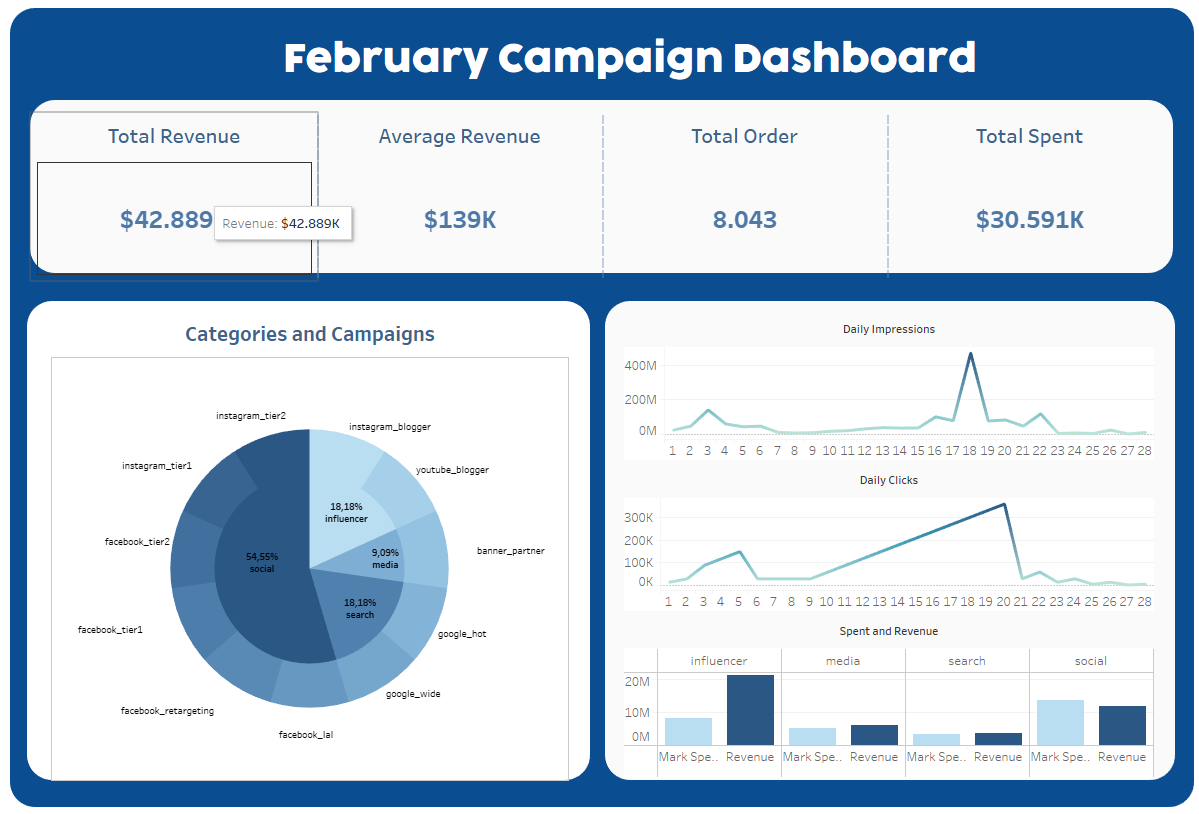
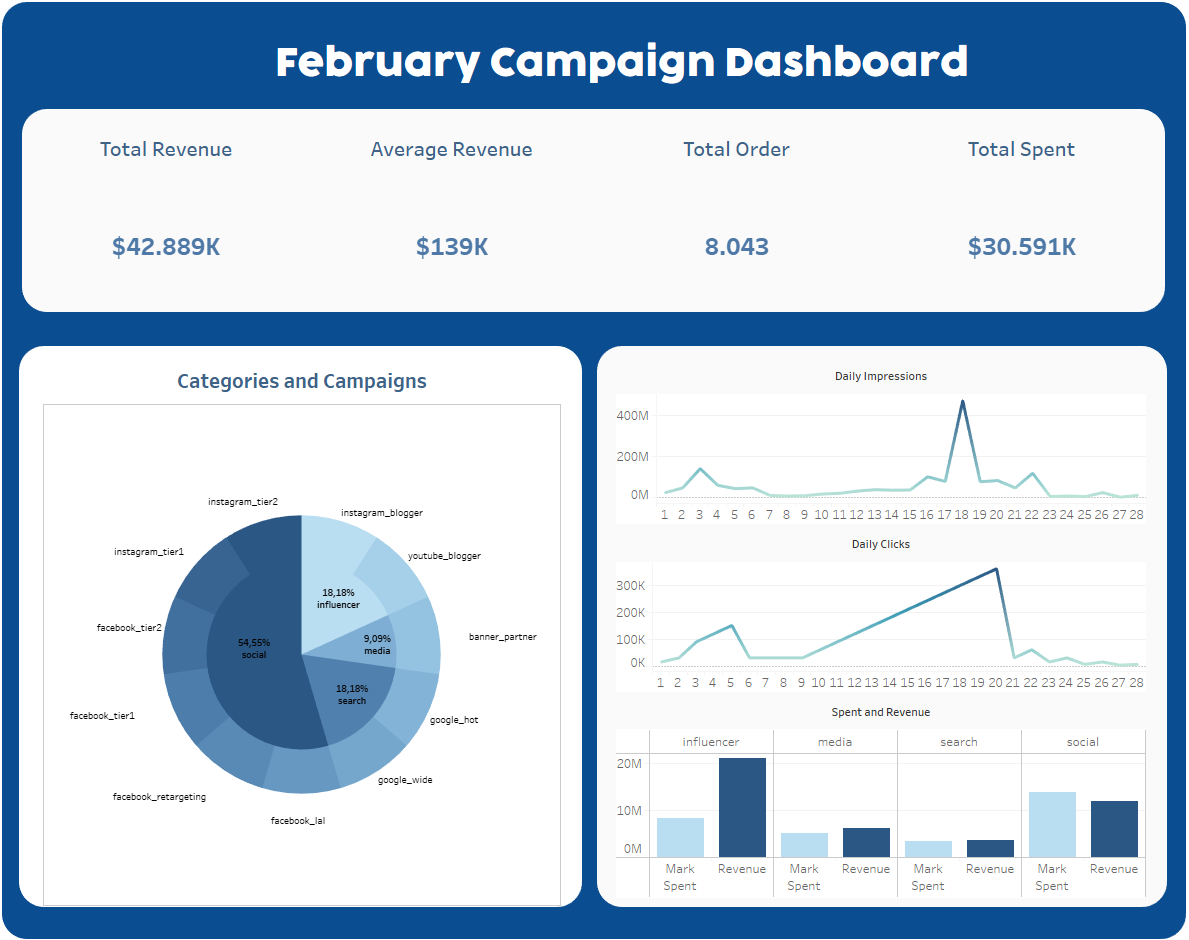
push

diff --git a/HR/README.md b/HR/README.md
@@ -8,7 +8,8 @@
 - Visualize to get insight with Tableau Public
 - You can see step-by-step, explanation, and how the code works in [Notebook.ipynb](Notebook.ipynb).  
 - You also can do Data Definition Language to define constraints Directly in SQL with [Keys.sql](Keys.sql).
-- The dashboard is displayed in [Dashboard HR.twbx](Dashboard HR.twbx).
+- The dashboard is displayed in [Dashboard HR.twbx](Dashboard%20HR.twbx).
+- These are raw data we used [Employee.csv](Employee.csv), [PerformanceRating.csv](PerformanceRating.csv), and [EducationLevel.csv] (EducationLevel.csv)
 
 ## Dashboard
 ![alt text](image.png)

diff --git a/Campaign/README.md b/Campaign/README.md
@@ -5,6 +5,9 @@
 - Extract data from Kaggle with API
 - Data Transformation and cleaning data with Pandas
 - Visualize to get insight with Tableau Public
+- You can see step-by-step, explanation, and how the code works in [Notebook.ipynb](Notebook.ipynb).
+- The dashboard is displayed in [Campaign Dashboard.twbx](Campaign%20Dashboard.twbx).
+- You can see the raw data used for analysis in [Marketing.csv](Marketing.csv).
 
 ## Dashboard
 ![alt text](image.png)
